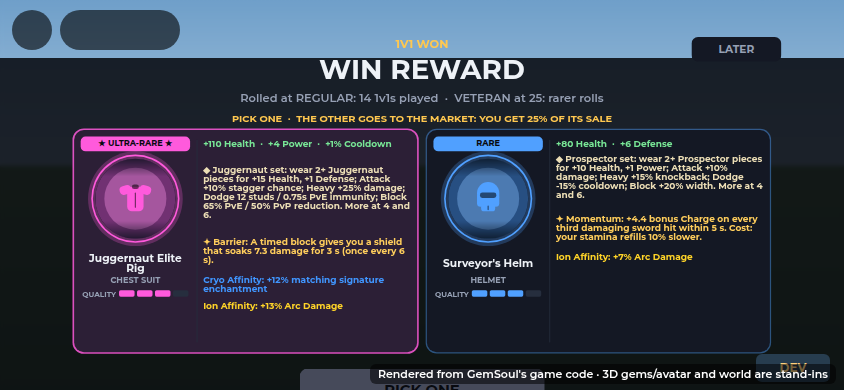
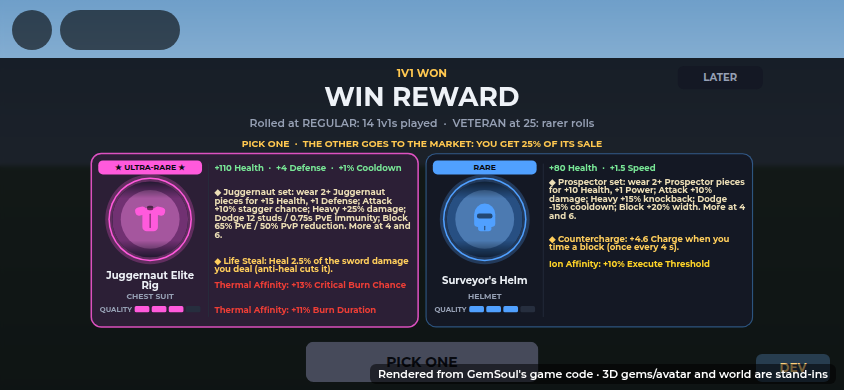
Cache pick cards: no dead space under a short list
One or two pieces (a win reward, a boss cache's keep-one) get wide cards.
They were at least 272 px tall with 11 px text, so a short list left a big
empty block under it. Now a wide card is only as tall as its picture
column (216 px) and its list is set as big as fits beside it (15 px down
to 11 px); only a list too long at 11 px makes the card taller.

The signature line's mark is ◆, like the set's: Roblox's fonts drew ✦ as
an empty box.

Tests: cache_lottery (a signature line, in a glyph the game draws).
Docs: arena-streaks.md, before/after renders.

Claude-Session: https://claude.ai/code/session_01M9AaiFqQ2dWL5tTu8tuKaL

diff --git a/docs/arena-streaks.md b/docs/arena-streaks.md
@@ -85,6 +85,18 @@ win of each run restore your pick's swings (10%, 25%, 50%). See
   the screen still reads on a phone; an old six-piece cache keeps upright
   cards with the list under the quality bar.
 
+  A wide card is only as tall as its picture column (216 px), and its list
+  is set as big as fits beside it (15 px down to 11 px,
+  `StreakRewards.WIDE_SIZES`); only a list too long even at 11 px makes the
+  card taller. *2026-10-27*: the cards used to be at least 272 px tall with
+  11 px text, so a short list left a big empty block under it. The
+  signature's mark is now ◆ like the set's: Roblox's fonts drew ✦ as an
+  empty box.
+
+  | Before | After |
+  | --- | --- |
+  | ![A boss cache's two cards with empty space under their lists](arena-streaks/boss-cache-before.png) | ![The same cards, as tall as the picture, the lists bigger](arena-streaks/boss-cache-after.png) |
+
   ![A 1v1 win's reward: each card lists every stat, its set and what two pieces of it give, its signature and each affix in full](arena-streaks/win-reward.png)
   ![The same on a phone](arena-streaks/win-reward-phone.png)
 
